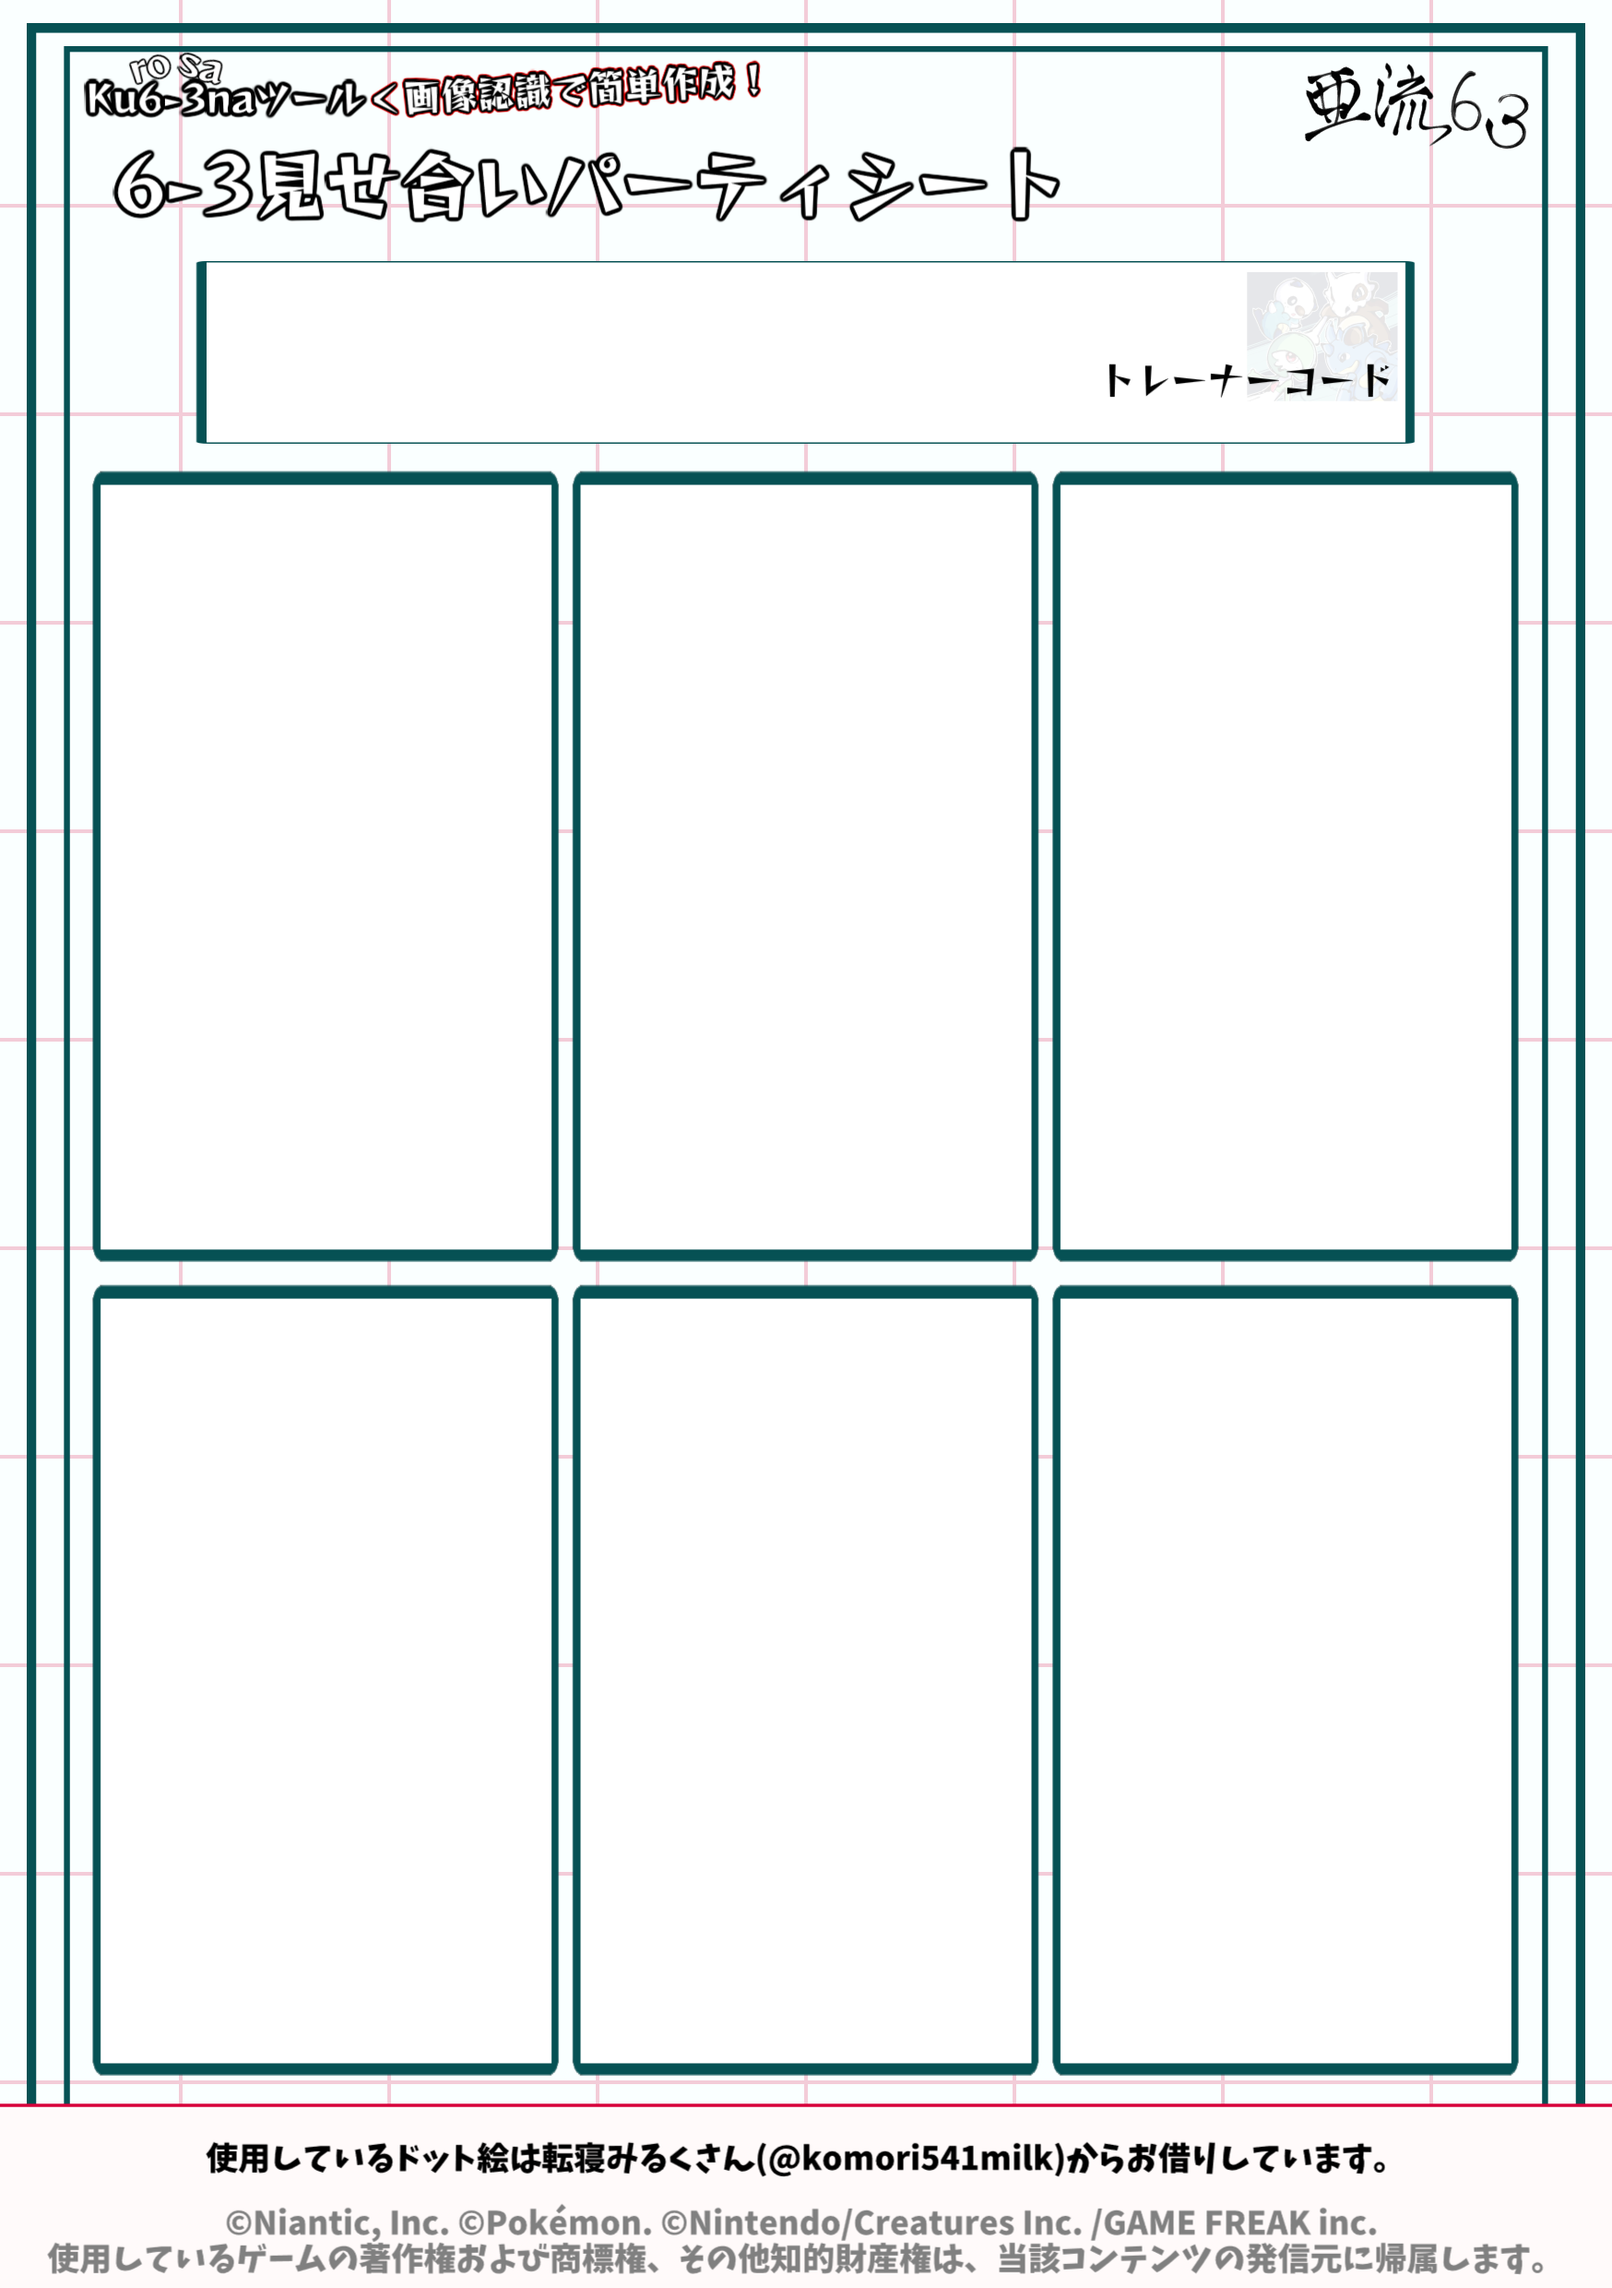
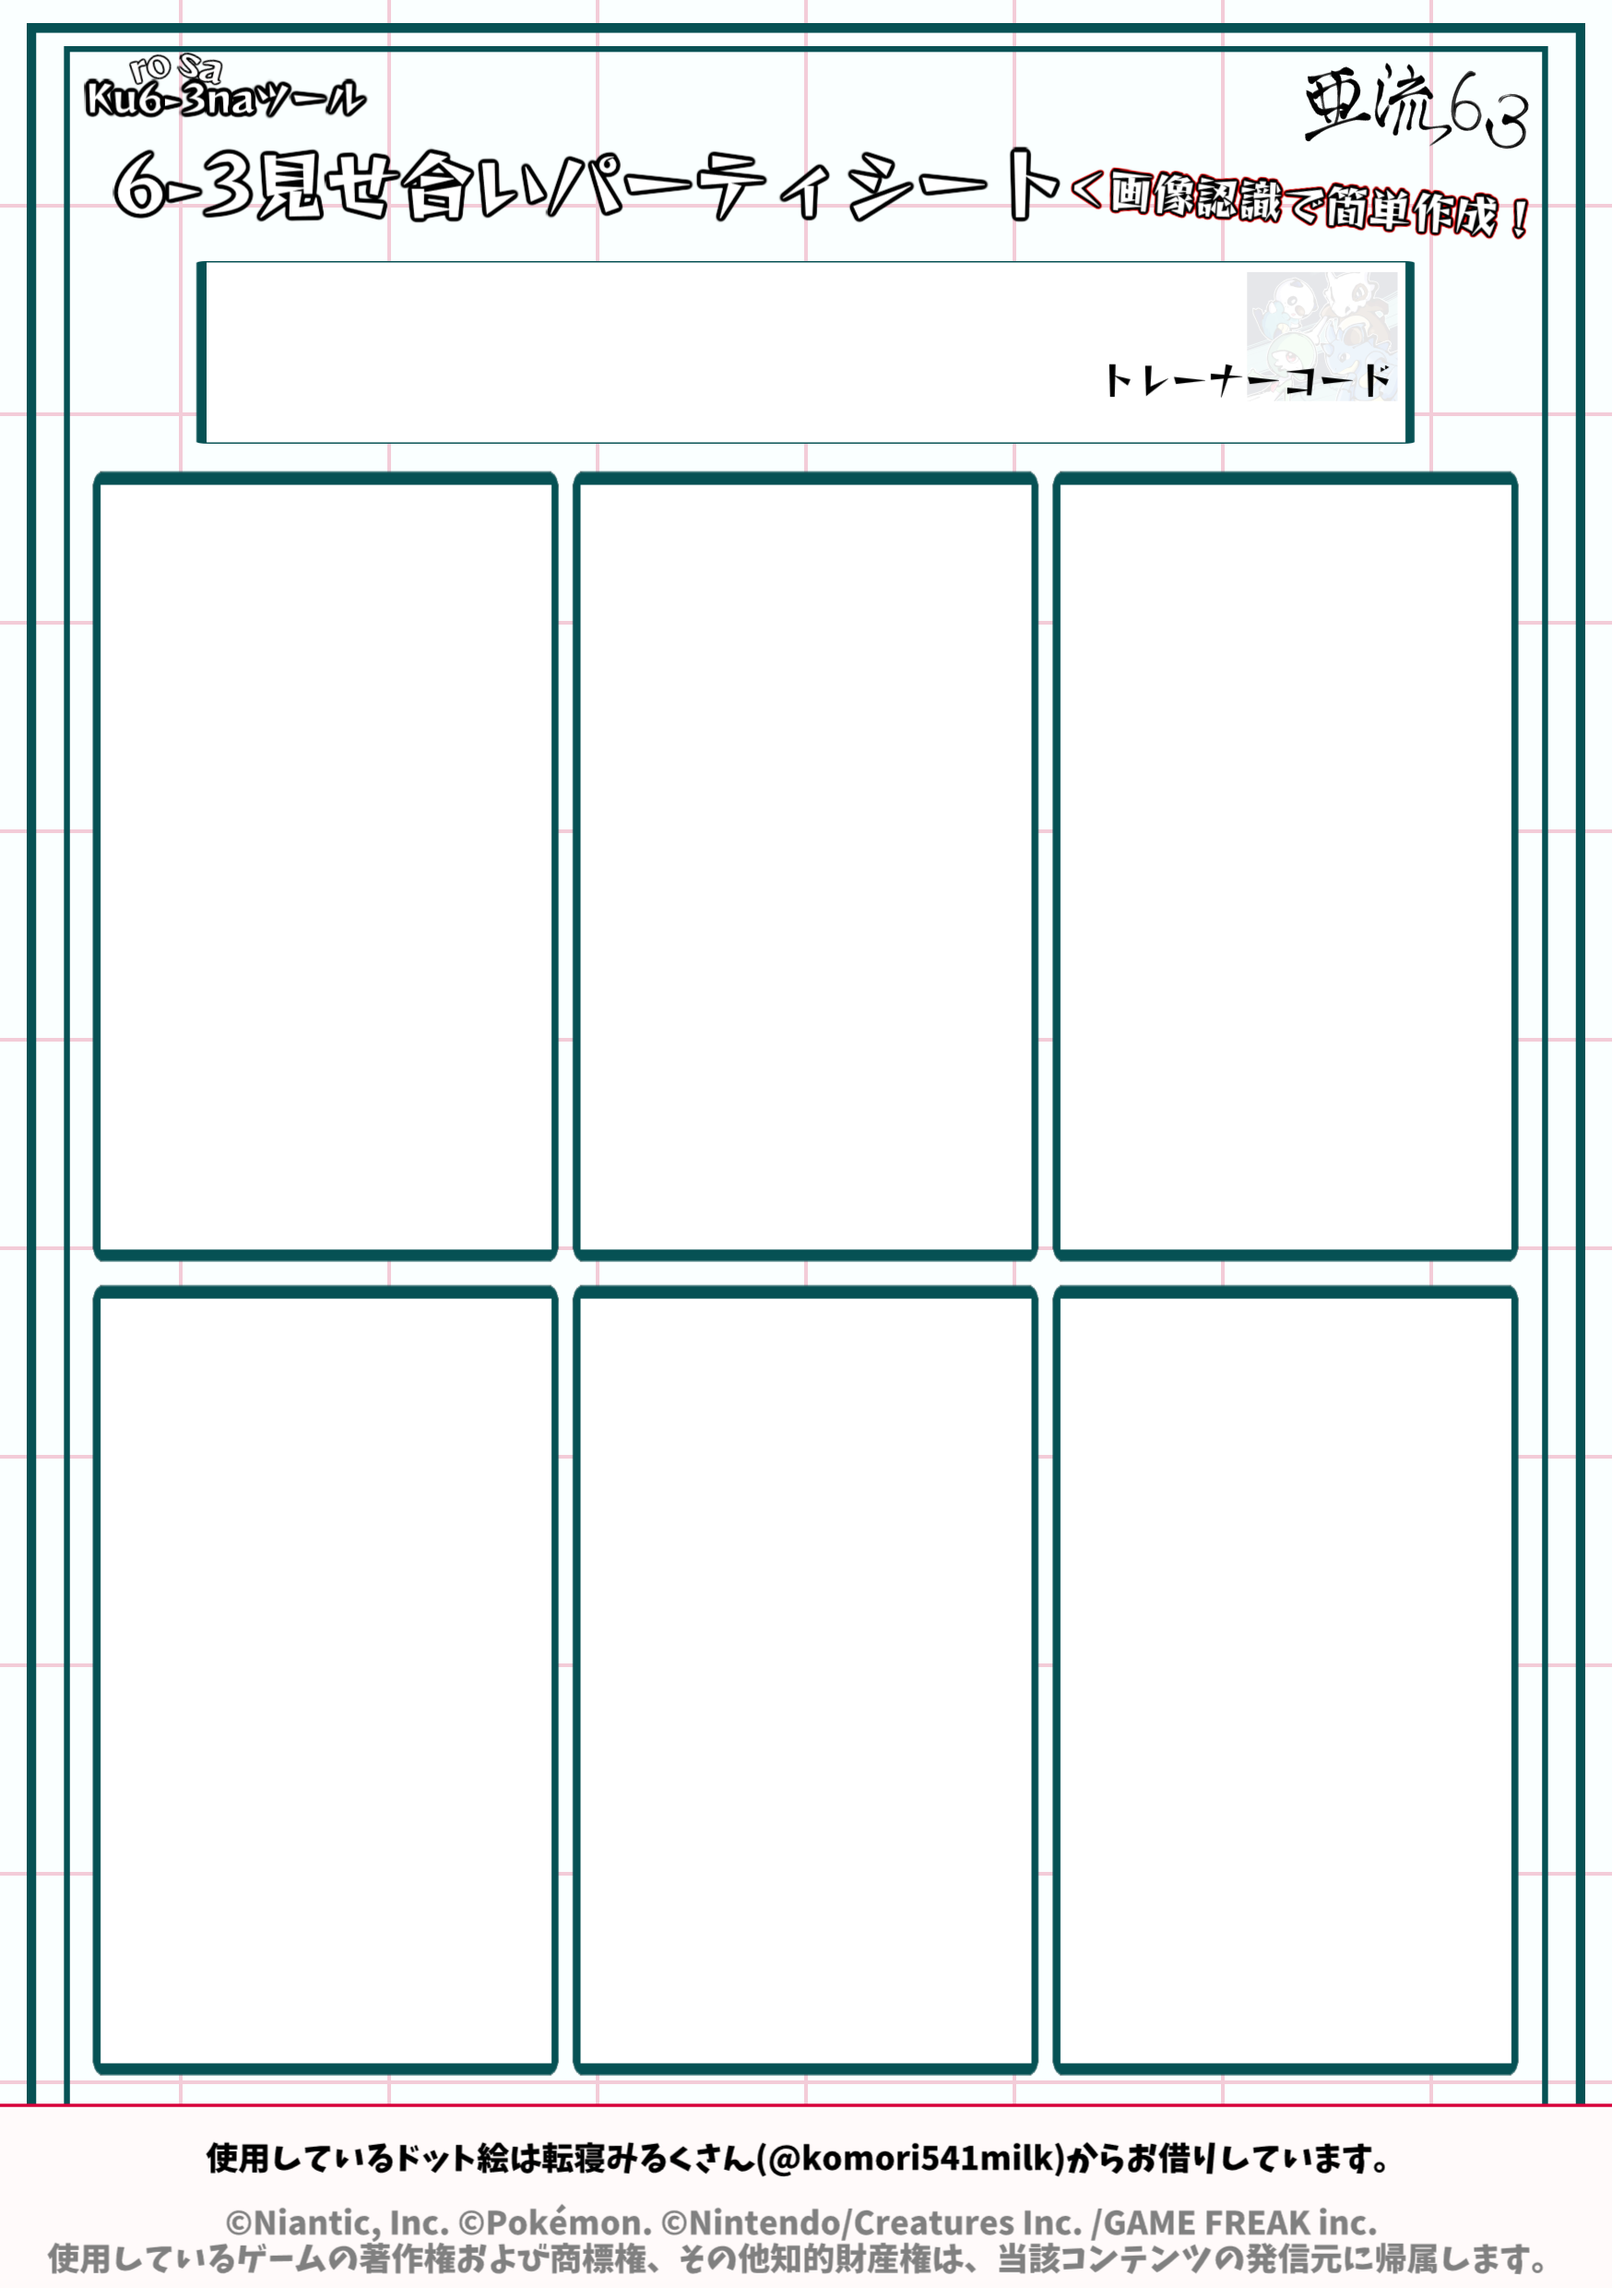
v1.1.10
フォレトス変更＆画像変更

Changed region(s): [[0.6487, 0.0621, 0.9268, 0.1242], [0.2162, 0.031, 0.4634, 0.0621]]

diff --git a/config.js b/config.js
@@ -56,7 +56,7 @@ const CONFIG = {
   templatePath: "Image/Template.png",
 
   // ========== バージョン表記 ==========
-  appVersion: "v1.1.9",
+  appVersion: "v1.1.10",
 
   // ========== 表示用ラベル（必要なら変更可） ==========
   labelRecognitionHint: "※初回時のみ少し時間かかります",
